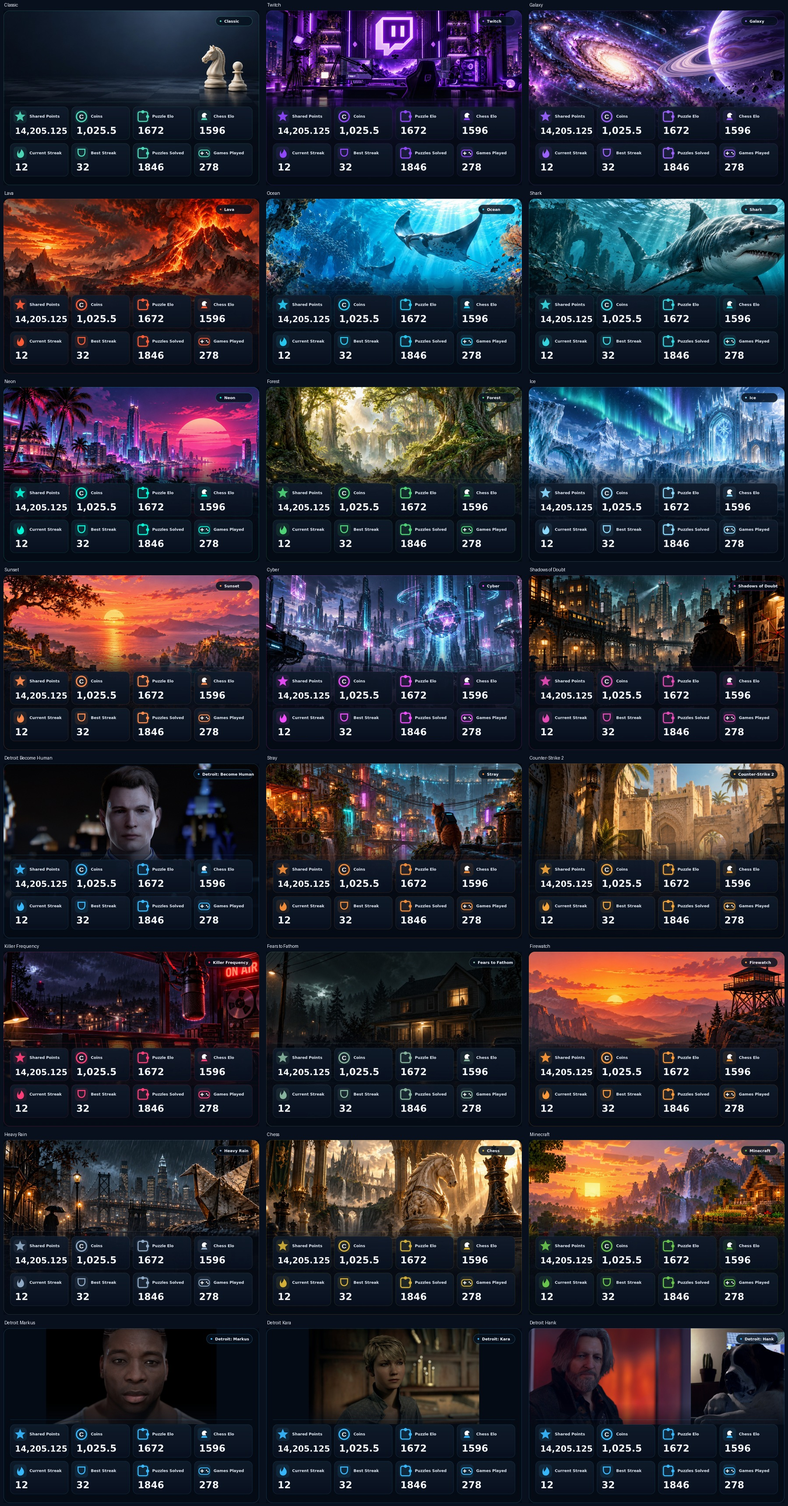
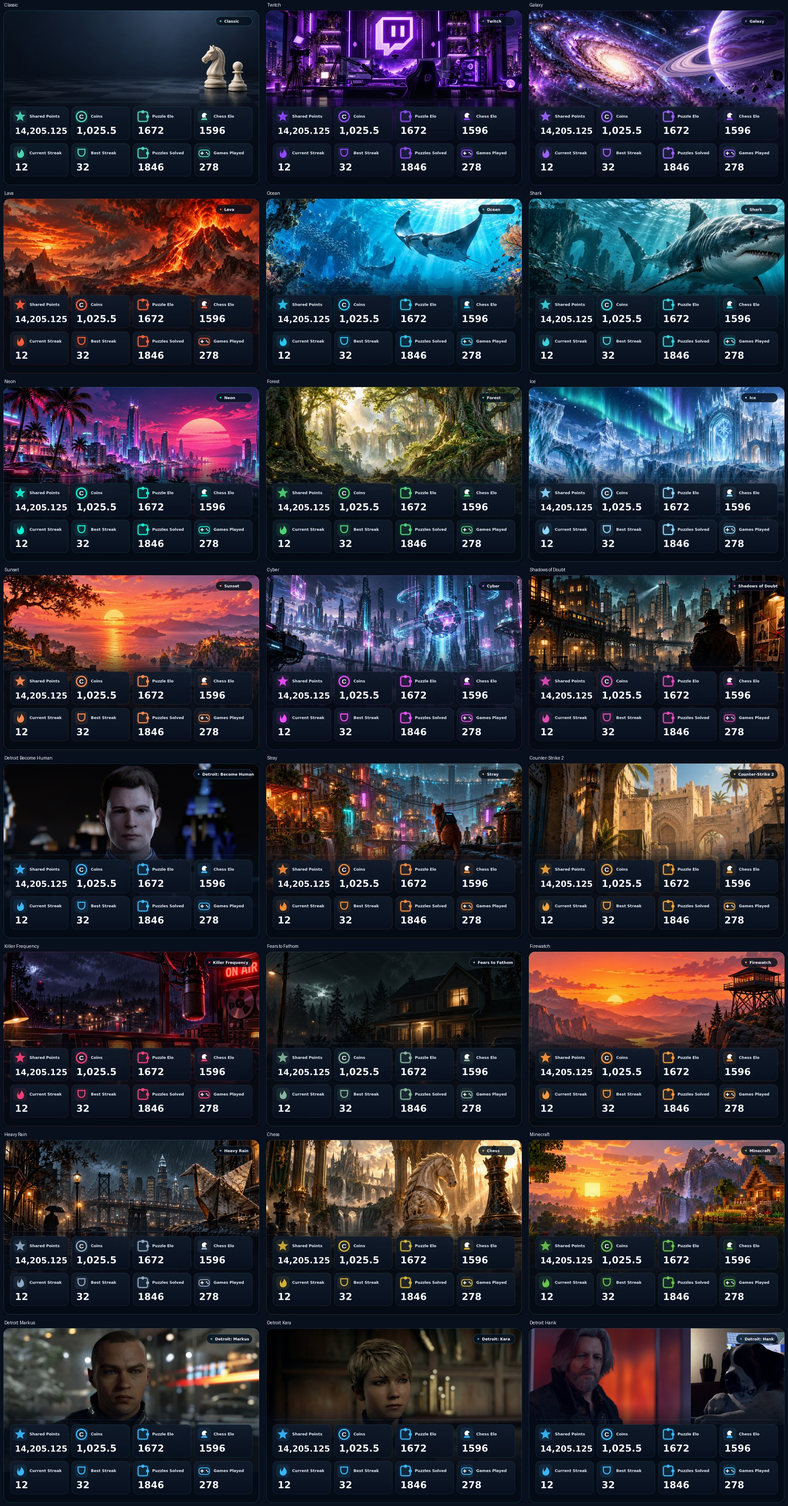
fix: correct Markus portrait and fill Detroit card width

Changed region(s): [[0.0, 0.8709, 0.3422, 0.9642], [0.3733, 0.8709, 0.6844, 0.9642]]

diff --git a/assets/profile_themes/README.md b/assets/profile_themes/README.md
@@ -22,7 +22,7 @@ The game references were checked against the official Steam descriptions for [St
 
 Detroit's source is the [official Connor screenshot](https://www.quanticdream.com/img/uploads/game/page_19/80a6da5f447bae655d36e4f344aac860.jpeg) published in [Quantic Dream's Detroit gallery](https://www.quanticdream.com/en/detroit-become-human). Artwork belongs to its respective rights holders. The local copy retains the complete 1440 × 810 composition, with JPEG compression at quality 95 and metadata removed for file size. No face, costume, scenery or character details were regenerated. The renderer applies its existing stat panels and shading; it needs no network access at runtime.
 
-The original `detroit` asset/key remains Connor. Three additional themes feature Markus, Kara and Hank. [detroit_sources.json](detroit_sources.json) records the official Markus image and the public Steam captures used for Kara, Hank and Sumo. Faces are never generatively repainted. Large portraits fit completely within the 450-pixel hero area; Hank and Sumo use two separate original game captures in adjacent panels.
+The original `detroit` asset/key remains Connor. Three additional themes feature Markus, Kara and Hank. [detroit_sources.json](detroit_sources.json) records the public Steam captures used for Markus, Kara, Hank and Sumo. Markus uses a recognizable close-up with his blue and green eyes in the snowy city. Faces are never generatively repainted. Kara and Markus use the same full-width 675-pixel artwork framing as Connor, with no side gutters. Hank and Sumo use two separate original game captures in adjacent panels.
 
 Each Detroit character is a separate 100-coin game theme. The shop groups them under one Detroit button, with a character selector before the buy/equip controls. Previously purchased Detroit themes remain valid as Connor; there is no ownership migration or additional charge for those purchases.
 
